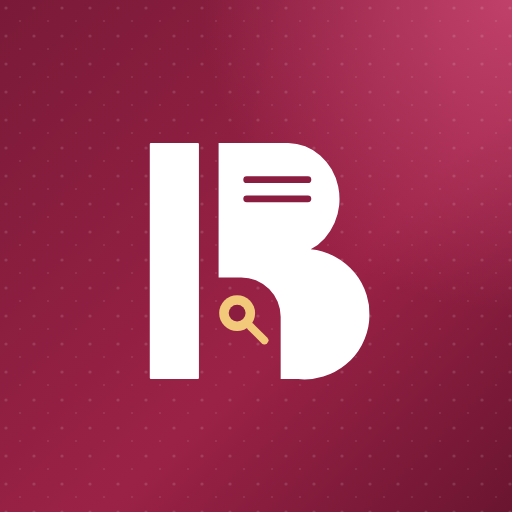
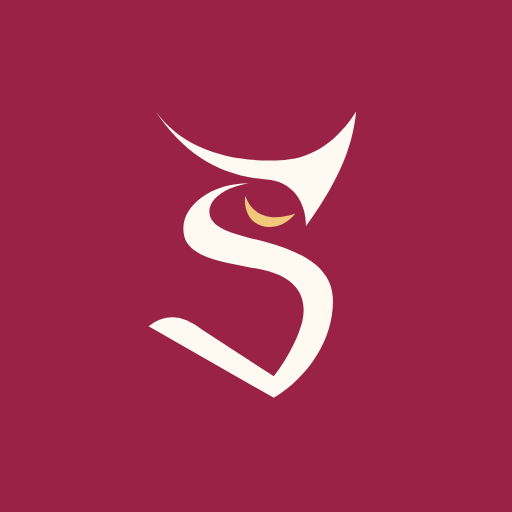
feat: replace the B mark with an S and owl eye
New brand mark across the header, intro, app icons, favicon, presentations and
social image. The social image also updates its figures.

diff --git a/index.html b/index.html
@@ -31,8 +31,8 @@
     <meta name="apple-mobile-web-app-status-bar-style" content="default">
     <meta name="apple-mobile-web-app-title" content="Buscador Jurídico">
     <link rel="manifest" href="/manifest.json">
-    <link rel="icon" type="image/png" sizes="64x64" href="/img/favicon-64.png?v=2">
-    <link rel="apple-touch-icon" href="/img/apple-touch-icon.png?v=2">
+    <link rel="icon" type="image/png" sizes="64x64" href="/img/favicon-64.png?v=3">
+    <link rel="apple-touch-icon" href="/img/apple-touch-icon.png?v=3">
     <!-- Share preview (WhatsApp, Teams, correo). Keep the image a light JPEG (<300 KB) and rename it when it changes: WhatsApp caches previews per image URL. -->
     <meta property="og:type" content="website">
     <meta property="og:locale" content="es_MX">
@@ -44,14 +44,14 @@
     <meta property="og:image:type" content="image/jpeg">
     <meta property="og:image:width" content="1200">
     <meta property="og:image:height" content="630">
-    <meta property="og:image:alt" content="Buscador Jurídico: toda la normativa del sector energético en un solo lugar. 87 instrumentos y 4,781 artículos.">
+    <meta property="og:image:alt" content="Buscador Jurídico: toda la normativa del sector energético en un solo lugar.">
     <meta property="og:url" content="https://buscador-juridico.com/">
     <link rel="canonical" href="https://buscador-juridico.com/">
     <meta name="twitter:card" content="summary_large_image">
     <meta name="twitter:title" content="Buscador Jurídico · Toda la normativa del sector energético">
     <meta name="twitter:description" content="Leyes, reglamentos, acuerdos, DACG y convocatorias del sector energético en un solo lugar. Busca un término y llega directo al artículo.">
     <meta name="twitter:image" content="https://buscador-juridico.com/img/og-buscador-juridico.jpg">
-    <meta name="twitter:image:alt" content="Buscador Jurídico: toda la normativa del sector energético en un solo lugar. 87 instrumentos y 4,781 artículos.">
+    <meta name="twitter:image:alt" content="Buscador Jurídico: toda la normativa del sector energético en un solo lugar.">
     <title>Buscador Jurídico · Normativa del sector energético</title>
     <script src="https://d3js.org/d3.v7.min.js" defer></script>
     <script src="https://cdnjs.cloudflare.com/ajax/libs/animejs/3.2.2/anime.min.js" defer></script>
@@ -109,7 +109,7 @@
     <!-- Cabecera (TopNav del sistema de diseño) -->
     <header class="site-header">
         <div class="site-header__inner">
-            <a href="/" id="brand-home" class="bj-lockup brand-link" aria-label="Buscador Jurídico · ir al inicio"><img src="/img/b-mark.svg" alt="" class="bj-lockup__mark" width="34" height="37"><span class="bj-lockup__text"><span class="bj-lockup__name">Buscador Jurídico</span><span class="bj-lockup__sub">Sector energético</span></span></a>
+            <a href="/" id="brand-home" class="bj-lockup brand-link" aria-label="Buscador Jurídico · ir al inicio"><img src="/img/logo-mark.svg" alt="" class="bj-lockup__mark" width="30" height="40"><span class="bj-lockup__text"><span class="bj-lockup__name">Buscador Jurídico</span><span class="bj-lockup__sub">Sector energético</span></span></a>
             <nav class="bj-topnav__links" aria-label="Secciones">
                 <a href="#acervo" id="nav-leyes" class="bj-navlink">Acervo</a>
                 <a href="#cronologia" id="nav-cronologia" class="bj-navlink">Cronología</a>
@@ -152,7 +152,7 @@
     <div id="mobile-menu-overlay" class="site-scrim hidden opacity-0"></div>
     <div id="mobile-menu-drawer" class="bj-drawer site-drawer translate-x-full" aria-label="Menú">
         <div class="bj-drawer__head">
-            <span class="bj-lockup bj-lockup--sm"><img src="/img/b-mark.svg" alt="" class="bj-lockup__mark" width="34" height="37"><span class="bj-lockup__text"><span class="bj-lockup__name">Buscador Jurídico</span><span class="bj-lockup__sub">Sector energético</span></span></span>
+            <span class="bj-lockup bj-lockup--sm"><img src="/img/logo-mark.svg" alt="" class="bj-lockup__mark" width="30" height="40"><span class="bj-lockup__text"><span class="bj-lockup__name">Buscador Jurídico</span><span class="bj-lockup__sub">Sector energético</span></span></span>
             <button type="button" id="close-mobile-menu" class="bj-btn bj-btn--ghost bj-btn--icon" aria-label="Cerrar menú"><svg class="bj-icon" width="22" height="22" viewBox="0 0 24 24" aria-hidden="true"><path d="M6 6l12 12M18 6 6 18"/></svg></button>
         </div>
         <nav class="bj-drawer__body" aria-label="Menú">
@@ -323,12 +323,12 @@
                         <div class="hero-paper hero-paper-middle"><span></span></div>
                         <div class="hero-paper hero-paper-front"><span></span></div>
                         <div class="hero-b-stack">
-                            <img class="hero-b-layer" style="--layer:5" src="/img/hero-b.svg" alt="" width="119" height="158">
-                            <img class="hero-b-layer" style="--layer:4" src="/img/hero-b.svg" alt="" width="119" height="158">
-                            <img class="hero-b-layer" style="--layer:3" src="/img/hero-b.svg" alt="" width="119" height="158">
-                            <img class="hero-b-layer" style="--layer:2" src="/img/hero-b.svg" alt="" width="119" height="158">
-                            <img class="hero-b-layer" style="--layer:1" src="/img/hero-b.svg" alt="" width="119" height="158">
-                            <img class="hero-b-layer" style="--layer:0" src="/img/hero-b.svg" alt="" width="119" height="158">
+                            <img class="hero-b-layer" style="--layer:5" src="/img/hero-mark.svg" alt="" width="119" height="158">
+                            <img class="hero-b-layer" style="--layer:4" src="/img/hero-mark.svg" alt="" width="119" height="158">
+                            <img class="hero-b-layer" style="--layer:3" src="/img/hero-mark.svg" alt="" width="119" height="158">
+                            <img class="hero-b-layer" style="--layer:2" src="/img/hero-mark.svg" alt="" width="119" height="158">
+                            <img class="hero-b-layer" style="--layer:1" src="/img/hero-mark.svg" alt="" width="119" height="158">
+                            <img class="hero-b-layer" style="--layer:0" src="/img/hero-mark.svg" alt="" width="119" height="158">
                         </div>
                         <div class="hero-lens"></div>
                     </div>
@@ -655,7 +655,7 @@
     <footer id="institutional-footer" class="site-footer">
         <div class="site-footer__inner">
             <div class="site-footer__brand">
-                <span class="bj-lockup"><img src="/img/b-mark.svg" alt="" class="bj-lockup__mark" width="34" height="37"><span class="bj-lockup__text"><span class="bj-lockup__name">Buscador Jurídico</span><span class="bj-lockup__sub">Sector energético</span></span></span>
+                <span class="bj-lockup"><img src="/img/logo-mark.svg" alt="" class="bj-lockup__mark" width="30" height="40"><span class="bj-lockup__text"><span class="bj-lockup__name">Buscador Jurídico</span><span class="bj-lockup__sub">Sector energético</span></span></span>
                 <p class="site-footer__credit">© 2026 Buscador Jurídico<br>Elaborado por JSC</p>
             </div>
             <nav class="site-footer__links" aria-label="Información del sitio">

diff --git a/src/lib/brand-mark.js b/src/lib/brand-mark.js
@@ -1,25 +1,27 @@
 /**
- * The buscador's mark: a "B" built from a bar and a document page, with a gold search lens in its
- * counter. Vector redraw of the reference artwork; `cut` is the background color seen through it.
- * `shine` adds a light sweep clipped to the mark (used by the entrance animation).
+ * The buscador's mark: an S under a sharp owl brow, with one eye. `color` draws the letter and the
+ * brow, `lens` the eye. `shine` adds a light sweep clipped to the mark. The class names `bm-bar`,
+ * `bm-page`, and `bm-lens` are what the entrance animation plays, so they stay on these parts.
  */
-const BAR = { x: 217, y: 211, width: 175, height: 841 };
-const PAGE = 'M462 211 H710 A185 200 0 0 1 790 590 A230 230 0 0 1 745 1052 H683 V830 A140 140 0 0 0 543 690 H462 Z';
+const FRAME = 'translate(190 190) scale(6.53)';
+const BROW = 'M6 2 C22 24 50 31 78 29 C94 28 108 18 118 2 C116 24 106 44 90 66 C90 52 82 41 68 40 C42 38 22 26 6 2 Z';
+const BODY = 'M58 42 C36 42 18 56 22 72 C26 86 52 87 68 91 C84 95 91 105 88 119 C86 127 81 138 72 150 L32 124 C22 116 12 114 2 122 L72 162 C92 150 106 128 105 106 C104 88 86 80 68 75 C52 71 36 68 36 58 C36 50 46 44 58 42 Z';
+const EYE = 'M56 49 C60 60 70 64 84 59 C74 72 54 68 56 49 Z';
 
-export function brandMarkSvg({ cut = '#0d0b0b', color = '#9b2247', lens = '#d0a94e', title = 'Buscador Jurídico', className = '', shine = false } = {}) {
+export function brandMarkSvg({ color = '#9b2247', lens = '#c9a24c', title = 'Buscador Jurídico', className = '', shine = false } = {}) {
     const sweep = shine ? `
   <defs>
-    <clipPath id="bm-clip"><rect x="${BAR.x}" y="${BAR.y}" width="${BAR.width}" height="${BAR.height}" rx="4"/><path d="${PAGE}"/></clipPath>
+    <clipPath id="bm-clip"><path transform="${FRAME}" d="${BROW}"/><path transform="${FRAME}" d="${BODY}"/></clipPath>
     <linearGradient id="bm-shine-grad" x1="0" y1="0" x2="1" y2="0">
       <stop offset="0" stop-color="#fff" stop-opacity="0"/><stop offset=".5" stop-color="#ffe9c2" stop-opacity=".55"/><stop offset="1" stop-color="#fff" stop-opacity="0"/>
     </linearGradient>
   </defs>
-  <g clip-path="url(#bm-clip)"><rect class="bm-shine" x="0" y="150" width="260" height="1000" fill="url(#bm-shine-grad)" transform="skewX(-18)"/></g>` : '';
-    return `<svg class="${className}" viewBox="190 190 810 890" role="img" aria-label="${title}" xmlns="http://www.w3.org/2000/svg">
-  <rect class="bm-bar" x="${BAR.x}" y="${BAR.y}" width="${BAR.width}" height="${BAR.height}" rx="4" fill="${color}"/>
-  <path class="bm-page" fill="${color}" d="${PAGE}"/>
-  <rect class="bm-line bm-line-1" x="550" y="330" width="242" height="24" rx="12" fill="${cut}"/>
-  <rect class="bm-line bm-line-2" x="550" y="398" width="242" height="24" rx="12" fill="${cut}"/>${sweep}
-  <g class="bm-lens"><circle class="bm-ripple" cx="528" cy="817" r="56" fill="none" stroke="${lens}" stroke-width="6" opacity="0"/><circle cx="528" cy="817" r="56" fill="${lens}"/><path d="M572 858 L613 895" stroke="${lens}" stroke-width="14" stroke-linecap="round"/></g>
+  <g clip-path="url(#bm-clip)"><rect class="bm-shine" x="0" y="150" width="260" height="1200" fill="url(#bm-shine-grad)" transform="skewX(-18)"/></g>` : '';
+    return `<svg class="${className}" viewBox="190 190 810 1084" role="img" aria-label="${title}" xmlns="http://www.w3.org/2000/svg">
+  <g transform="${FRAME}">
+    <path class="bm-body bm-bar" d="${BODY}" fill="${color}"/>
+    <path class="bm-brow bm-page" d="${BROW}" fill="${color}"/>
+    <g class="bm-lens"><path class="bm-eye" d="${EYE}" fill="${lens}"/><circle class="bm-ripple" cx="68" cy="60" r="12" fill="none" stroke="${lens}" stroke-width="1" opacity="0"/></g>
+  </g>${sweep}
 </svg>`;
 }

diff --git a/src/scripts/law-presentation.js b/src/scripts/law-presentation.js
@@ -36,7 +36,7 @@ const FONT_BODY = 'Noto Sans';
 const LOGO = '/img/logo-buscador.png';
 const LOGO_LIGHT = '/img/logo-buscador-claro.png';
 const LOGO_RATIO = 1426 / 228;
-const COVER_IMAGE = '/img/b-mark-blanco.png';
+const COVER_IMAGE = '/img/logo-mark-blanco.png';
 const ACCENTS = ['guinda', 'verde', 'dorado', 'petroleo'];
 const ANIME_CDN = 'https://cdnjs.cloudflare.com/ajax/libs/animejs/3.2.1/anime.min.js';
 const HIGHCHARTS_CDN = 'https://code.highcharts.com/highcharts.js';
@@ -587,7 +587,7 @@ function renderWebDeck(model) {
     return `
         <div id="lp-slide-container" class="lp-slide-container">
             <section class="lp-slide lp-cover active">
-                <div class="lp-cover-mark" aria-hidden="true">${brandMarkSvg({ color: '#ffffff', cut: '#7a1a38', lens: '#f2c97a' })}</div>
+                <div class="lp-cover-mark" aria-hidden="true">${brandMarkSvg({ color: '#ffffff', lens: '#f2c97a' })}</div>
                 <div class="lp-cover-overlay"></div>
                 <div class="lp-cover-top">
                     <img class="lp-lockup" src="${LOGO_LIGHT}" alt="Buscador Jurídico">
@@ -666,7 +666,7 @@ function renderWebDeck(model) {
             ${articleSlides}
 
             <section class="lp-slide lp-close-slide lp-backcover">
-                <div class="lp-close-mark" aria-hidden="true">${brandMarkSvg({ color: '#ffffff', cut: '#0b1526', lens: '#d0a94e' })}</div>
+                <div class="lp-close-mark" aria-hidden="true">${brandMarkSvg({ color: '#ffffff', lens: '#d0a94e' })}</div>
                 <div class="lp-bc-main">
                     <span class="lp-bc-brand" data-animate>Buscador Jurídico · Sector energético</span>
                     <h2 data-animate>Gracias.</h2>
@@ -746,7 +746,7 @@ function renderSlideShell(title, content) {
             <header class="lp-header">
                 <div class="lp-brand">Buscador Jurídico</div>
                 <div class="lp-title">${escapeHtml(title)}</div>
-                <img src="/img/b-mark.svg" alt="">
+                <img src="/img/logo-mark.svg" alt="">
             </header>
             <main class="lp-content">${content}</main>
             <footer class="lp-footer"></footer>
@@ -1027,7 +1027,7 @@ function ensureWebDeckStyles() {
         .law-presentation-embed .lp-progress-track{bottom:0;border-radius:0 0 10px 10px;overflow:hidden}
         .lp-cover-top .lp-lockup{height:46px;width:auto}
         .lp-close-logos .lp-lockup{height:44px;width:auto}
-        .lp-header img[src$="b-mark.svg"]{height:40px}
+        .lp-header img[src$="logo-mark.svg"]{height:40px}
         .lp-brand{font-size:19px}
         .lp-cover{background:radial-gradient(90% 120% at 100% 0%,#b8375f 0%,transparent 55%),radial-gradient(70% 90% at 0% 100%,#1e5b4f66 0%,transparent 60%),linear-gradient(135deg,#5e1530 0%,#8a1d40 55%,#6d1631 100%)}
         .lp-cover:before{content:'';position:absolute;inset:0;background-image:radial-gradient(circle,#ffffff1f 1.4px,transparent 1.8px);background-size:34px 34px;z-index:1}

diff --git a/src/styles/design/chrome.css b/src/styles/design/chrome.css
@@ -57,12 +57,14 @@
 
 /* ── Marca ─────────────────────────────────────────────── */
 .bj-lockup { display: inline-flex; align-items: center; gap: 10px; min-width: 0; color: var(--ink); text-decoration: none; border-radius: var(--radius-sm); }
-.bj-lockup__mark { width: 34px; height: auto; flex: none; transition: transform var(--duration-slow) var(--ease-out); }
+.bj-lockup__mark { width: 30px; height: auto; flex: none; transition: transform var(--duration-slow) var(--ease-out); }
 a.bj-lockup:hover .bj-lockup__mark { transform: rotate(-4deg) scale(1.05); }
 .bj-lockup__text { display: flex; flex-direction: column; min-width: 0; }
 .bj-lockup__name { display: block; font: 600 19px/1.05 var(--font-display); letter-spacing: -.01em; color: var(--ink); white-space: nowrap; }
 .bj-lockup__sub { display: block; margin-top: 4px; font: 700 10px/1 var(--font-sans); letter-spacing: .14em; text-transform: uppercase; color: var(--ink-muted); white-space: nowrap; }
-.bj-lockup--sm .bj-lockup__mark { width: 26px; }
+.bj-lockup--sm .bj-lockup__mark { width: 24px; }
+/* En modo oscuro la marca va en marfil: el guinda no se distingue sobre fondo profundo. */
+html.dark-mode .bj-lockup__mark { content: url("/img/logo-mark-claro.svg"); }
 .bj-lockup--sm .bj-lockup__name { font-size: 16px; }
 .bj-lockup--sm .bj-lockup__sub { font-size: 9px; }
 
@@ -111,7 +113,7 @@ a.bj-lockup:hover .bj-lockup__mark { transform: rotate(-4deg) scale(1.05); }
     .site-header__inner { height: calc(var(--nav-height) + 3px); padding: 3px var(--space-4) 0; }
 }
 @media (max-width: 420px) {
-    .site-header .bj-lockup__mark { width: 30px; }
+    .site-header .bj-lockup__mark { width: 27px; }
     .site-header .bj-lockup__name { font-size: 17px; }
 }
 

diff --git a/tests/brand-mark.test.js b/tests/brand-mark.test.js
@@ -1,0 +1,37 @@
+import { afterEach, describe, expect, it } from 'vitest';
+import { brandMarkSvg } from '../src/lib/brand-mark.js';
+
+const draw = options => {
+  document.body.innerHTML = brandMarkSvg(options);
+  return document.querySelector('svg');
+};
+
+describe('brand mark', () => {
+  afterEach(() => { document.body.innerHTML = ''; });
+
+  it('draws an S under the owl brow, with one eye', () => {
+    const svg = draw();
+    expect(svg.getAttribute('aria-label')).toBe('Buscador Jurídico');
+    expect(svg.querySelector('path.bm-brow')).not.toBeNull();
+    expect(svg.querySelector('path.bm-body')).not.toBeNull();
+    expect(svg.querySelectorAll('path.bm-eye')).toHaveLength(1);
+    expect(svg.querySelector('.bm-head')).toBeNull();
+  });
+  it('keeps the parts the entrance animation plays', () => {
+    const svg = draw({ shine: true });
+    for (const part of ['.bm-bar', '.bm-page', '.bm-lens', '.bm-ripple', '.bm-shine']) {
+      expect(svg.querySelector(part), part).not.toBeNull();
+    }
+    // The intro's ring opens from this circle.
+    expect(svg.querySelector('.bm-lens circle:last-of-type')).not.toBeNull();
+  });
+  it('adds the light sweep only when asked', () => {
+    expect(draw().querySelector('.bm-shine')).toBeNull();
+  });
+  it('takes its colours from the options', () => {
+    const svg = draw({ color: '#111111', lens: '#333333' });
+    expect(svg.querySelector('.bm-brow').getAttribute('fill')).toBe('#111111');
+    expect(svg.querySelector('.bm-body').getAttribute('fill')).toBe('#111111');
+    expect(svg.querySelector('.bm-eye').getAttribute('fill')).toBe('#333333');
+  });
+});

diff --git a/src/styles/site-intro.css b/src/styles/site-intro.css
@@ -26,7 +26,7 @@ html.intro-on{overflow:hidden}
 /* Stage: the sheets land, the mark builds on top of them */
 #site-intro .si-stage{position:relative;display:flex;flex-direction:column;align-items:center;gap:30px;transform:scale(.96);filter:blur(3px)}
 #site-intro.is-playing .si-stage{animation:si-settle 2s cubic-bezier(.16,1,.3,1) .35s forwards}
-#site-intro .si-emblem{position:relative;width:min(156px,34vw);aspect-ratio:810/890}
+#site-intro .si-emblem{position:relative;width:min(156px,34vw);aspect-ratio:810/1084}
 #site-intro .si-mark{position:relative;z-index:1;width:100%;height:auto;overflow:visible;filter:drop-shadow(0 14px 18px #00000059)}
 #site-intro .si-sheet{position:absolute;left:4%;top:-4%;width:92%;height:108%;border-radius:10px;background:#f6efe6;box-shadow:0 18px 34px #0000006b;opacity:0}
 #site-intro .si-sheet-1{--to:rotate(-12deg) translate(-26%,4%);background:#e8d8ce}

diff --git a/src/scripts/site-intro.js b/src/scripts/site-intro.js
@@ -100,7 +100,7 @@ export function playIntro() {
         <div class="si-stage">
             <div class="si-emblem">
                 <span class="si-sheet si-sheet-1"></span><span class="si-sheet si-sheet-2"></span><span class="si-sheet si-sheet-3"></span>
-                ${brandMarkSvg({ className: 'si-mark', cut: '#f6efe6', shine: true })}
+                ${brandMarkSvg({ className: 'si-mark', shine: true })}
             </div>
             <div class="si-words">
                 <p class="si-name" aria-label="${NAME}">${letters(NAME)}</p>

diff --git a/public/sw.js b/public/sw.js
@@ -22,7 +22,7 @@ self.addEventListener('install', (event) => {
   self.skipWaiting();
   event.waitUntil(
     caches.open(CACHE_NAME).then((cache) =>
-      cache.addAll(['/img/b-mark.svg', '/offline.html', '/img/favicon-64.png']).catch(() => {})
+      cache.addAll(['/img/logo-mark.svg', '/offline.html', '/img/favicon-64.png']).catch(() => {})
     )
   );
 });

diff --git a/docs/superpowers/specs/2026-11-05-portada-estante-design.md b/docs/superpowers/specs/2026-11-05-portada-estante-design.md
@@ -177,6 +177,14 @@ Hoja de superficie crema que crece desde la portada con `clip-path`: 1050 ms al 
 | `src/scripts/ui.js` | Solo enlace: `showHomeView()`, rutas, `popstate`, logo, `hideAllViews`, inicio de carga | Vista nueva |
 | `index.html` | Contenedor `#home-view` fuera de `#main-container`, que limita el ancho | |
 
+## Logo
+
+La B se sustituye por una S con cejas y ojo de búho (S de Sasso), dibujada desde cero con trazos afilados. La imagen de referencia tenía marcas de agua, así que se tomó el concepto y no sus trazos.
+
+- Fuente única: `src/lib/brand-mark.js`. De ahí salen `logo-mark.svg`, `logo-mark-claro.svg` (modo oscuro), `hero-mark.svg`, `logo-mark-blanco.png`, `logo-buscador.png`, `logo-buscador-claro.png`, favicon, íconos de app e imagen para redes.
+- Colores: guinda con ojo dorado; marfil con ojo dorado en fondos oscuros. Íconos de app sobre guinda.
+- La imagen para redes actualiza sus cifras a 124 documentos y 5,793 artículos.
+
 ## Temas y textos
 
 - Funciona en los cuatro temas (`light`, `dark`, `sepia`, `contraste`) con los tokens existentes.
@@ -226,7 +234,7 @@ Hoja de superficie crema que crece desde la portada con `clip-path`: 1050 ms al 
 
 ## Fuera de alcance
 
-- Barra lateral, logo de búho, resumen, «Leyes populares» y «Lecturas recientes» de las imágenes de referencia.
+- Barra lateral, resumen, «Leyes populares» y «Lecturas recientes» de las imágenes de referencia.
 - Filtrar el estante al escribir.
 - Resúmenes de documentos (no hay datos) y guardar documentos completos (los favoritos son por artículo).
 - Ilustraciones únicas por documento.
